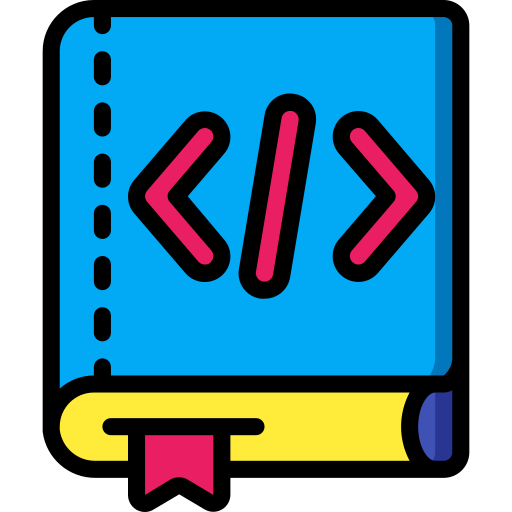
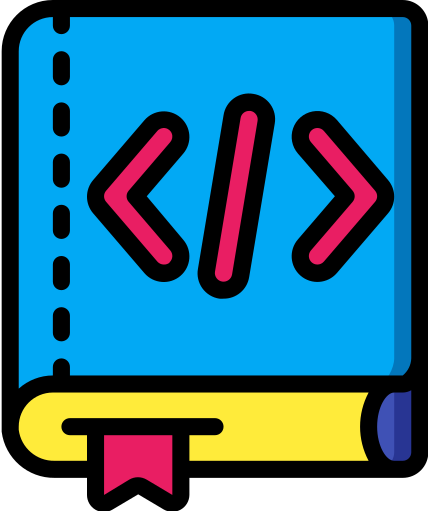
adjusted explorer UI

diff --git a/interapp/src/style/theme/dark/components/explorer/explorer.css b/interapp/src/style/theme/dark/components/explorer/explorer.css
@@ -6,18 +6,6 @@
   background-color: #282828;
 }
 
-/* Caret Icon */
-.theme-dark .explorer .node-caret {
-  background-image: url('@renderer/assets/images/arrow-down.png');
-  background-repeat: no-repeat;
-  background-position: center;
-  width: 12px;
-  height: 12px;
-  background-size: 17px;
-  margin-left: 3px;
-  margin-right: 1px;
-}
-
 /* Base Node */
 .theme-dark .explorer .node-input {
   color: #dedede;
@@ -76,12 +64,16 @@
      STRUCTURE & MISC
      ======================== */
 
-/* Icons */
-.theme-dark .explorer .file-icon {
-  background-image: url('@renderer/assets/images/file.png');
+/* Caret */
+.theme-dark .explorer .node-caret {
+  background-image: url('@renderer/assets/images/arrow-down.png');
+  background-repeat: no-repeat;
+  background-position: center;
+  width: 12px;
+  height: 12px;
+  background-size: 17px;
   margin-left: 3px;
-  min-width: 23px;
-  min-height: 23px;
+  margin-right: 1px;
 }
 
 /* Hint text */

diff --git a/apps/codegym/src/renderer/pages/contests/ContestsPage.vue b/apps/codegym/src/renderer/pages/contests/ContestsPage.vue
@@ -48,7 +48,7 @@
     <SettingsPageHeader />
     <div class="flex grow">
       <div style="border: 1px solid red" :style="{ width: `${explorerWidth}px` }">
-        <Explorer @before-create-node="beforeCreateNode" />
+        <Explorer file-icon @before-create-node="beforeCreateNode" />
       </div>
       <div class="custom-resizer" @mousedown="resizing = true"></div>
       <div :style="{ width: `${mainWidth}px` }"></div>

diff --git a/apps/codegym/src/renderer/style/theme/dark/components/explorer.css b/apps/codegym/src/renderer/style/theme/dark/components/explorer.css
@@ -1,0 +1,8 @@
+.theme-dark .explorer .file-icon {
+  background-image: url('@renderer/assets/images/book.png');
+  width: 18px;
+  height: 23px;
+  background-size: 18px;
+  background-repeat: no-repeat;
+  background-position: center;
+}

diff --git a/apps/codegym/src/renderer/style/theme/dark/index.css b/apps/codegym/src/renderer/style/theme/dark/index.css
@@ -1,1 +1,2 @@
 @import './pages/problemsPage.css';
+@import './components/explorer.css';
